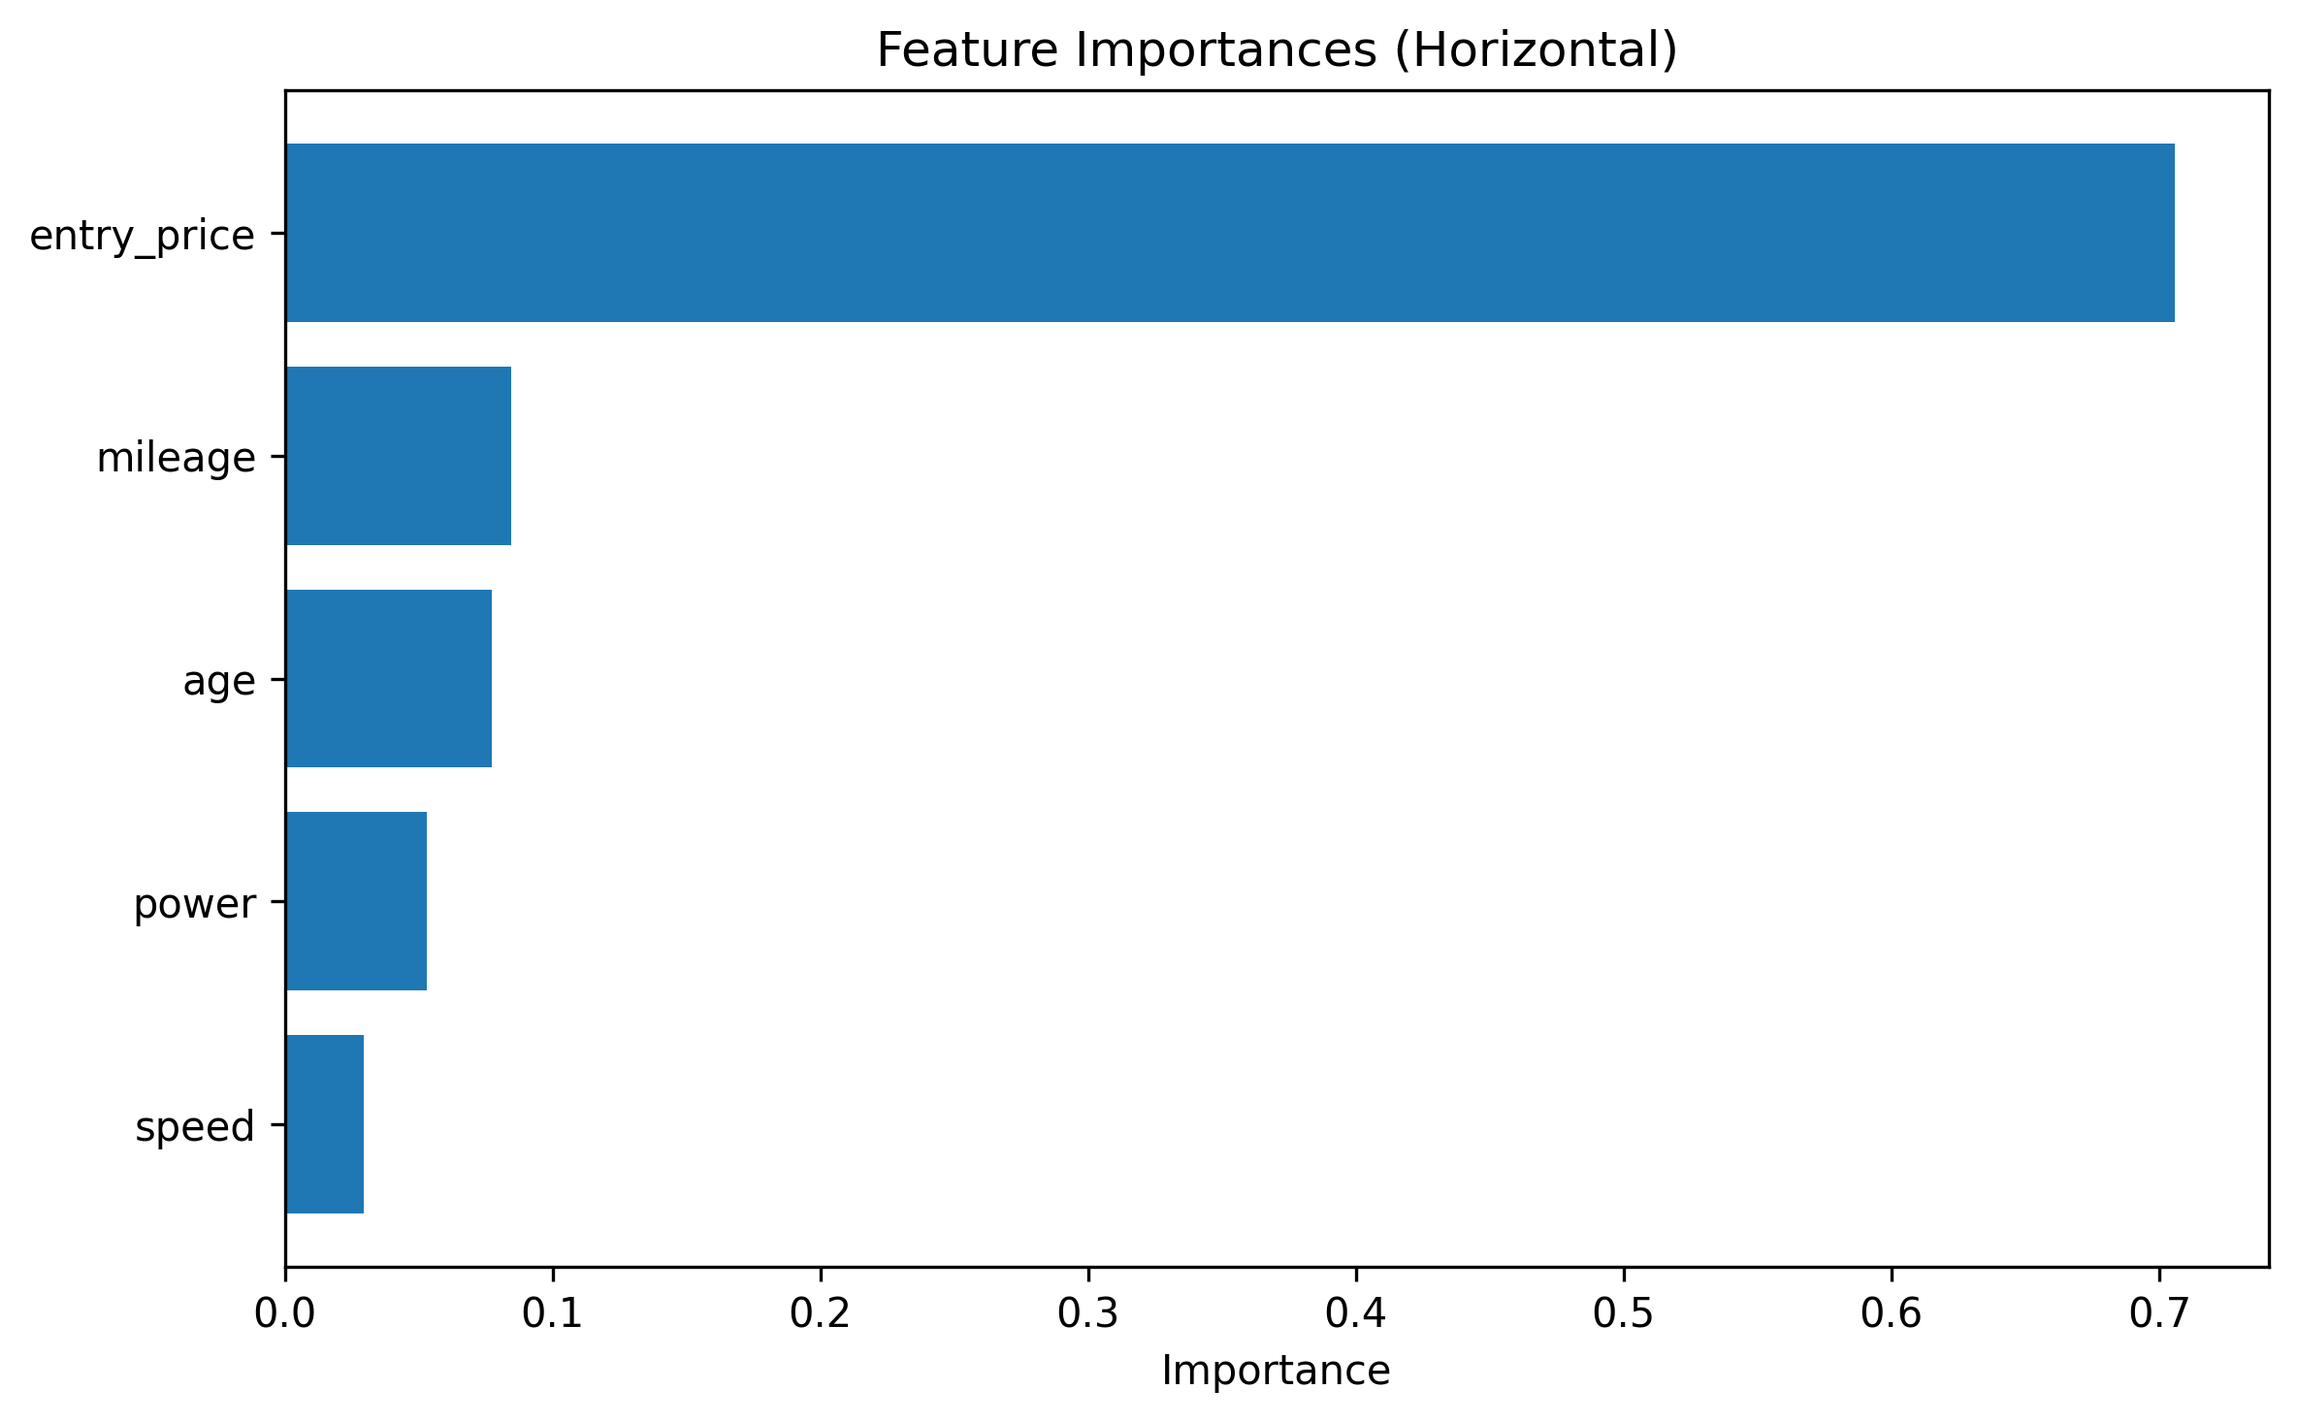
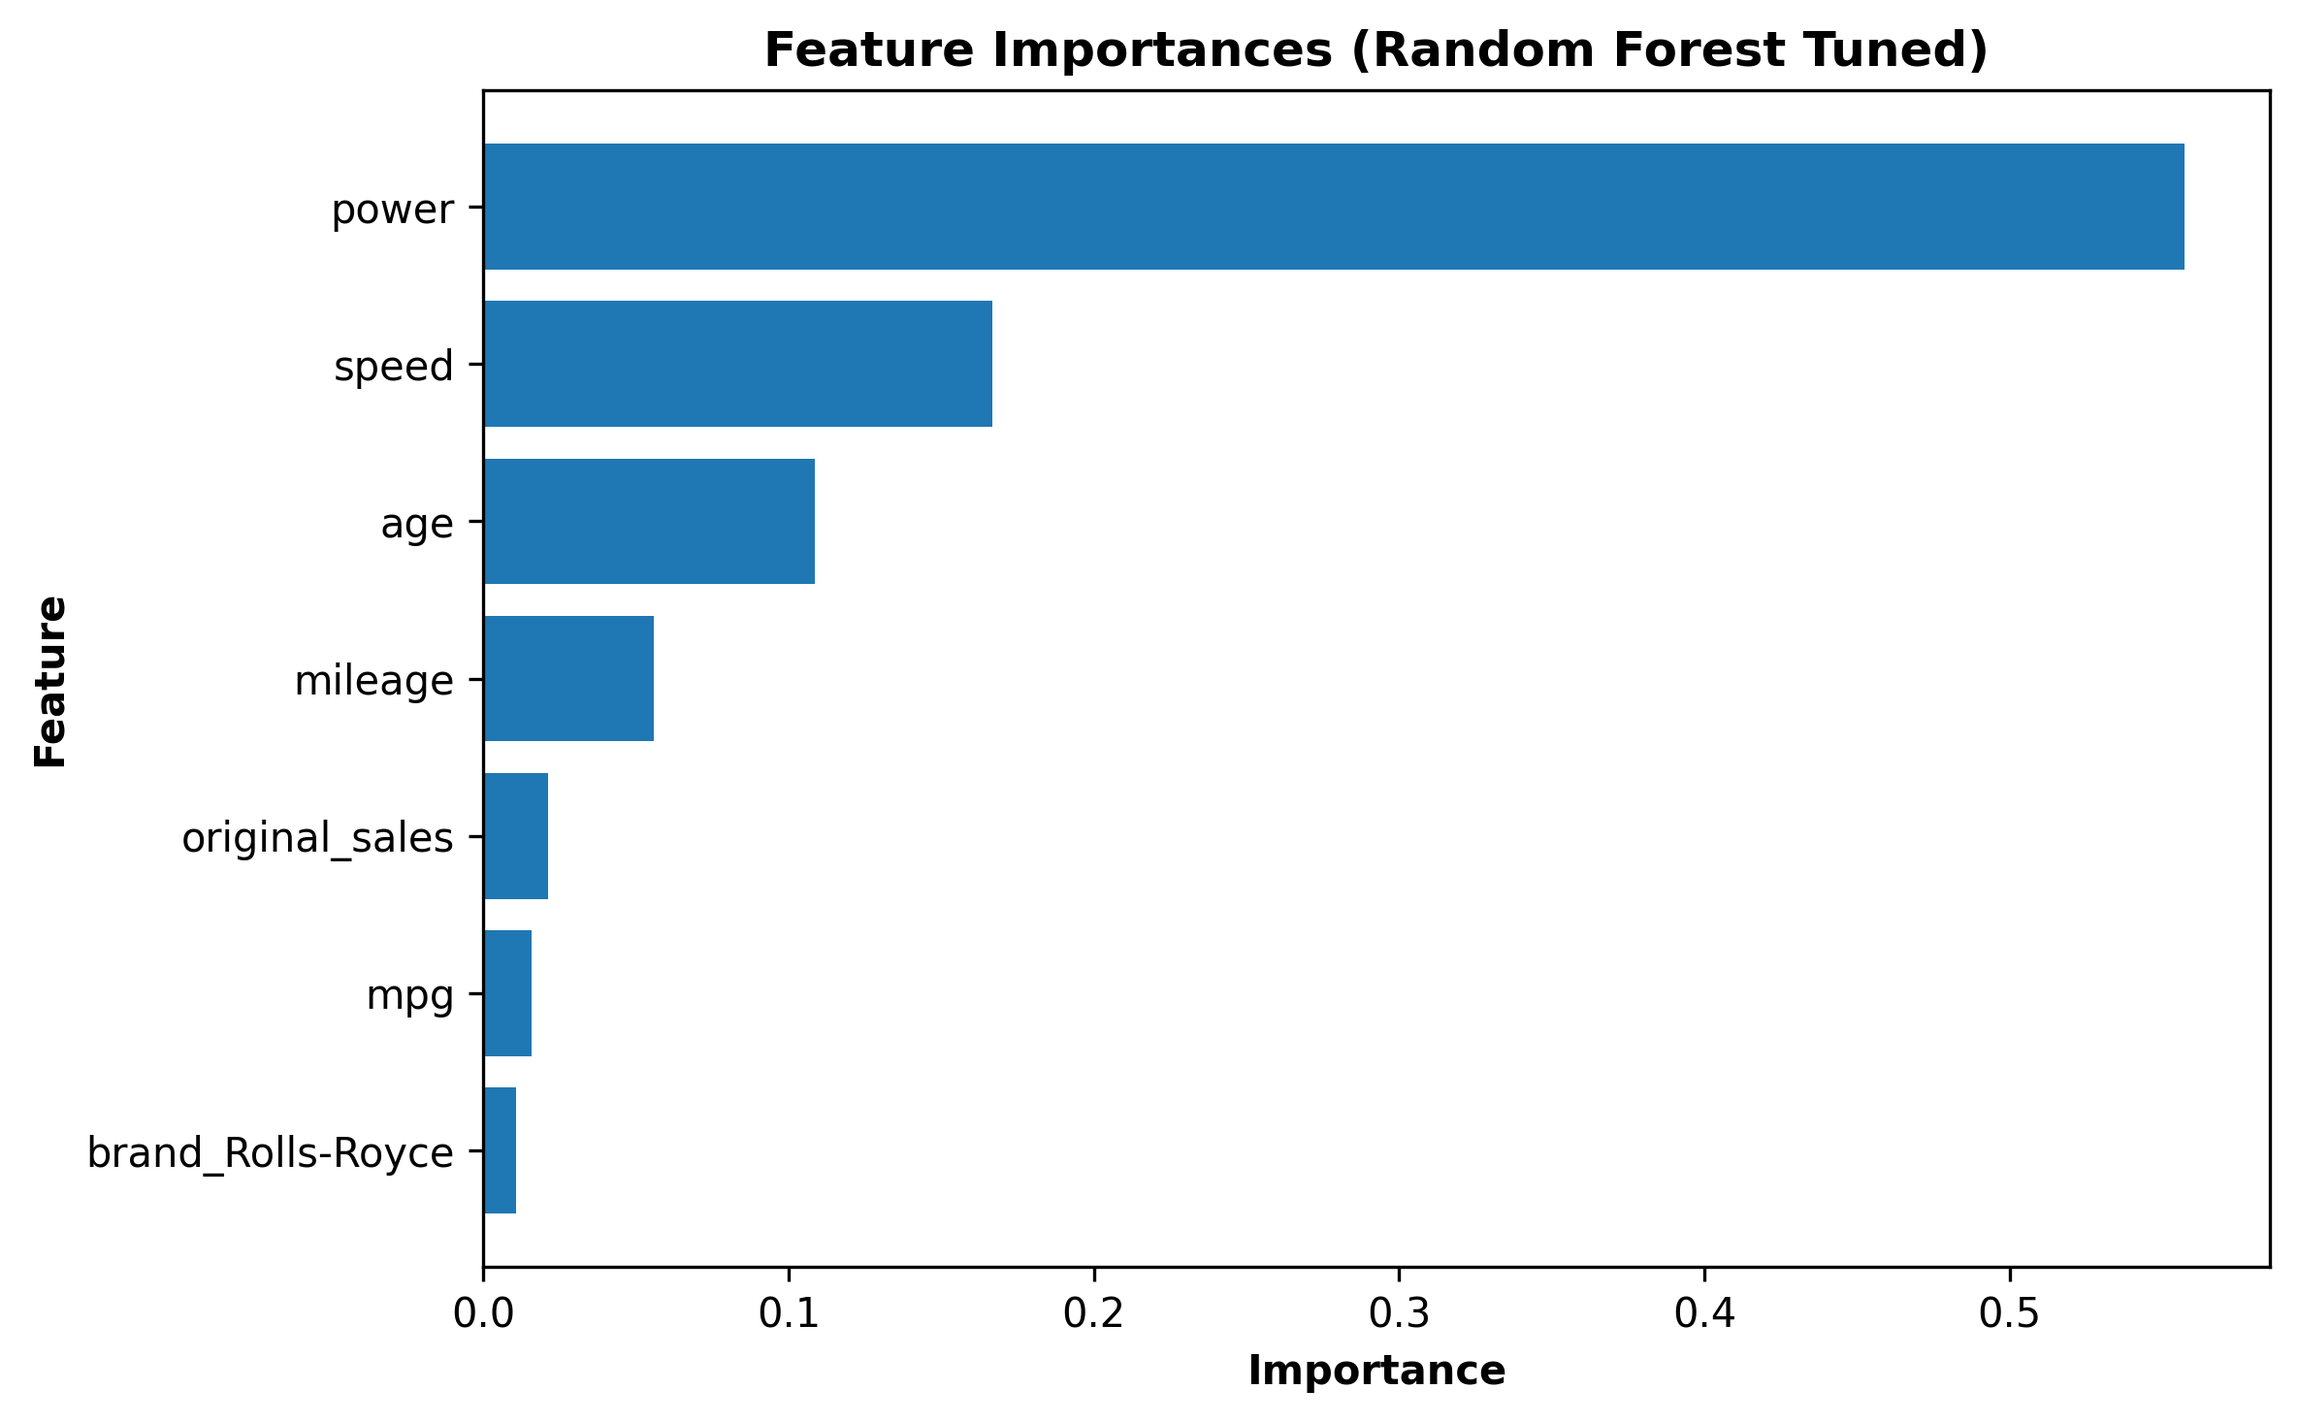
feat(models): save final models, metrics and figures

diff --git a/src/model_analysis.py b/src/model_analysis.py
@@ -21,14 +21,7 @@ from sklearn.utils.validation import check_is_fitted
 
 def main():
     df = get_safe_data()
-
-    # Check for proxy leakage
-    #plot_correlation_heatmap(df, numeric_features)
     
-    # Check price distributions
-    #plot_price_box_plots(df)
-
-    # -- Select features and split dataset -- #
     # List all categorical and numeric features
     categorical_features= [
         'brand', 'genmodel', 'colour', 'bodytype', 
@@ -42,12 +35,15 @@ def main():
         'age', 'usage_intensity_norm', 'original_sales', 'entry_price'
     ]
 
+    # Check for proxy leakage
+    plot_correlation_heatmap(df, numeric_features)
+
     # Define features and target for the model
     features = [
         'brand', 'colour', 'bodytype', 
         'gearbox','fuel', 'adv_month', 'mileage', 
         'mpg', 'seats', 'doors', 'power', 'engine',
-        'speed', 'age', 'usage_intensity_norm', 'original_sales', 'entry_price'
+        'speed', 'age', 'usage_intensity_norm', 'original_sales'
     ]
 
     target = 'price'
@@ -65,17 +61,34 @@ def main():
     all_features = show_feature_names(preprocess, categorical_features_to_train, numeric_features_to_train, X_train) # Get feature names
     print (f"Number of ohe catagoric features + numeric features: {len(all_features)}")
     
-    # # -- Train models -- #
-    #dtr_model = find_or_train_model("final_decision_tree.pkl", "decision_tree_regressor", preprocess, X_train, y_train, X_test, y_test)
-    rf_model = find_or_train_model("random_forest.pkl", "random_forest", preprocess, X_train, y_train, X_test, y_test)
-    #gb_model = find_or_train_model("gradient_boosting.pkl", "gradient_boosting", preprocess, X_train, y_train, X_test, y_test)
-    
+    # Train models
+    dtr_model = find_or_train_model("final_decision_tree.pkl", "decision_tree_regressor", preprocess, X_train, y_train, X_test, y_test)
+    gb_model = find_or_train_model("final_gradient_boosting.pkl", "gradient_boosting", preprocess, X_train, y_train, X_test, y_test)
+    rf_model = find_or_train_model("final_random_forest.pkl", "random_forest", preprocess, X_train, y_train, X_test, y_test)
+    rf_tuned_model = find_or_train_model("final_random_forest_tuned.pkl", "random_forest_tuned", preprocess, X_train, y_train, X_test, y_test)
 
-    # #Tune hyperparameters (tuned once then commented out)
+    # Plot feature importance
+    plot_feature_importance(all_features, dtr_model, "decision_tree_regressor", "final_dtr_feature_importance.png")
+    plot_feature_importance(all_features, gb_model, "gradient_boosting", "final_gb_feature_importance.png")
+    plot_feature_importance(all_features, rf_model, "random_forest", "final_rf_feature_importance.png")
+    plot_feature_importance(all_features, rf_tuned_model, "random_forest_tuned", "final_rf_tuned_feature_importance.png")
+
+    # Analyse Errors 
+    a_preds, a_mae, a_rmse, a_r2 = test_model(rf_tuned_model, X_test, y_test)
+    a_errors = np.abs(y_test - a_preds)
+    a_relative_error = a_errors / y_test
+
+    # Plot error graphs
+    plot_model_analysis(X_test, y_test, a_preds, a_errors, a_relative_error, "brand_level_bias.png", a_mae)
+
+    # Plot tree
+    #plot_decision_tree(dtr_model, "decision_tree_regressor", all_features, "final_decision_tree_plot.png")
+
+    #Tune hyperparameters (tuned once then commented out)
     # values, rf_tuned, params_tuned, mae_tuned, rmse_tuned, r2_tuned = tune_hyperparams(rf_model, "random_forest", X_train, y_train, X_test, y_test)
-    # save_model(rf_tuned, "rf_tuned3.pkl")
+    # save_model(rf_tuned, "final_random_forest_tuned.pkl")
     
-    # # Save tuned metrics
+    # # Save tuned metrics (uncomment when tuning model)
     # results = {
     #     "model_type": "random_forest_tuned",
     #     "mae": mae_tuned,
@@ -83,33 +96,9 @@ def main():
     #     "r2": r2_tuned,
     #     "hyperparameters": params_tuned,
     # }
+    # save_metrics(results, "final_rf_tuned.json")
 
-    # save_metrics(results, "rf_tuned3.json")
-
-    # Plot feature importance
-    #plot_feature_importance(all_features, dtr_model, "decision_tree_regressor", "final_dtr_feature_importance.png")
-    # plot_feature_importance(all_features, rf_model, "random_forest", "rf_feature_importance.png")
-    # plot_feature_importance(all_features, gb_model, "gradient_boosting", "gb_feature_importance.png")
-
-    # Plot tree
-    #plot_decision_tree(dtr_model, "decision_tree_regressor", all_features, "decision_tree_plot.png")
-
-    # Cross validate
-    #cross_validate(model, 'tree', X, y)
-
-    # Analyse Errors 
-
-    # a_preds, a_mae, a_rmse, a_r2 = test_model(rf_model, X_test, y_test)
-
-    # a_errors = np.abs(y_test - a_preds)
-    # a_relative_error = a_errors / y_test
-
-    # # # Plot error graphs
-    # # plot_error_graphs(errors, relative_error, y_test)
-    # plot_model_analysis(X_test, y_test, a_preds, a_errors, a_relative_error, "brand_level_entry_price.png")
-
-
-def plot_correlation_heatmap(df, numeric_features, figsize=(14, 10)):
+def plot_correlation_heatmap(df, numeric_features, figsize=(15, 8), fig_name = "correlation_heatmap.png"):
     """
     Plots a correlation heatmap for the numeric features in the dataset
     and prints the full correlation matrix.
@@ -128,15 +117,21 @@ def plot_correlation_heatmap(df, numeric_features, figsize=(14, 10)):
     plt.figure(figsize=figsize)
     sns.heatmap(
         corr_matrix,
+        annot_kws={"size": 12},
         annot=True,          # show values inside the heatmap
         fmt=".2f",           # format numbers
         cmap="coolwarm",
         center=0,
         linewidths=0.5
     )
+
+    plt.xticks(fontsize=15)
+    plt.yticks(fontsize=15)
+
     plt.title("Correlation Heatmap of Numeric Features")
     plt.tight_layout()
-    plt.show()
+    plt.savefig(f"figures/{fig_name}", dpi=600, bbox_inches='tight')
+    #plt.show()
 
     return corr_matrix
 
@@ -145,7 +140,7 @@ def find_or_train_model(model_file: str, model_name: str, preprocess, X_train, y
     # Check if model has already been trained, if not train the relevant model 
     
     model_path = os.path.join(f"models/{model_file}")
-    metrics_path = f"models/{model_name}_metrics.json"
+    metrics_path = f"models/final_{model_name}_metrics.json"
     if os.path.exists(model_path) and os.path.exists(metrics_path):
         model = load_model(model_file)
         print(f"Loaded existing baseline {model_name} model.")
@@ -208,8 +203,7 @@ def get_safe_data(path = "data/processed/final_dataset.csv"):
 
     safe_df =  df[(~df["is_flagged"]) & price_filter]
 
-    #5print(safe_df.max())
-        
+    #print(safe_df.max())
 
     return safe_df
 
@@ -255,7 +249,7 @@ def show_feature_names(preprocess: ColumnTransformer, cat_features:list, num_fea
     return all_features
 
 def run_pipeline(preprocess: ColumnTransformer, X_train, y_train, model_name:str):
-    # runs full pipeline based on the model selected - preprocessing + model
+    # Runs full pipeline based on the model selected - preprocessing + model
     start = time.time()
 
     match model_name:
@@ -269,6 +263,18 @@ def run_pipeline(preprocess: ColumnTransformer, X_train, y_train, model_name:str
             model = Pipeline(steps=[
                 ('preprocess', preprocess),
                 ('random_forest', RandomForestRegressor(n_jobs=-1, random_state=10))
+            ])
+        case "random_forest_tuned":
+            model = Pipeline(steps=[
+                ('preprocess', preprocess),
+                ('random_forest_tuned', RandomForestRegressor(
+                    n_jobs=-1, 
+                    max_depth = 29,
+                    max_features = None,
+                    min_samples_leaf = 2,
+                    min_samples_split = 6,
+                    n_estimators = 47,
+                    random_state = 10))
             ])
 
         case "gradient_boosting":
@@ -296,7 +302,7 @@ def test_model(model, X_test, y_test):
     return preds, mae, rmse, r2
 
 def plot_decision_tree(model, model_name, all_features, fig_name:str):
-    # -- Plot tree graphically -- #
+    # Plot tree graphically
 
     # Extract tree to plot graphically
     model_step = model.named_steps[model_name]
@@ -330,7 +336,8 @@ def cross_validate(model, model_type:str, X, y, score_type = 'neg_mean_absolute_
     print("Worst MAE:", np.max(cv_mae)) # highest error
 
 def plot_feature_importance(all_features:list, model, model_name:str, fig_name:str):
-    
+    # Plot feature importance horizontal bar chart
+
     model_step = model.named_steps[model_name]
 
     # Find feature importances
@@ -351,8 +358,9 @@ def plot_feature_importance(all_features:list, model, model_name:str, fig_name:s
     plt.figure(figsize=(8,5))
     plt.barh(feat_imp_nonzero["Feature"], feat_imp_nonzero["Importance"])
 
-    plt.xlabel("Importance")
-    plt.title("Feature Importances (Horizontal)")
+    plt.xlabel("Importance", fontweight="bold")
+    plt.ylabel("Feature", fontweight="bold")
+    plt.title("Feature Importances (Random Forest Tuned)", fontweight="bold")
     plt.tight_layout()
     plt.savefig(f"figures/{fig_name}", dpi=300, bbox_inches='tight')
 
@@ -381,11 +389,11 @@ def plot_error_graphs(errors, relative_error, y_test):
     plt.savefig("figures/relative_error.png", dpi=300, bbox_inches='tight')
     #plt.show()
 
-def plot_model_analysis(X_test, y_test, preds, errors, relative_error, file_name:str):
+def plot_model_analysis(X_test, y_test, preds, errors, relative_error, file_name:str, mae ):
     
     # Check if model performs worse on high or low priced cars
     bins = [0, 5000, 10000, 20000, 40000, 60000, 70000, 80000, 90000, 100000, 200000, 300000, 400000, 500000, 600000, 700000, 800000, 900000, 1000000, 2000000]
-    labels = [ f"{int(bins[i]/1000)}-{int(bins[i+1]/1000)}k" for i in range(len(bins)-1) ]
+    labels = [ f"{int(bins[i]/1000)}-{int(bins[i+1]/1000)}" for i in range(len(bins)-1) ]
 
     df_errors = pd.DataFrame({
         "true_price": y_test,
@@ -395,14 +403,15 @@ def plot_model_analysis(X_test, y_test, preds, errors, relative_error, file_name
 
     df_errors["price_bin"] = pd.cut(df_errors["true_price"], bins=bins, labels=labels)
 
-    error_by_bin = df_errors.groupby("price_bin")[["error", "relative_error"]].mean()
+    error_by_bin = df_errors.groupby("price_bin")[["error", "relative_error"]].mean()*100
    
     # --- Plot error by price bin --- #
     plt.figure(figsize=(12, 6))
     plt.bar(error_by_bin.index.astype(str), error_by_bin["relative_error"], color="steelblue")
     plt.xticks(rotation=45, ha="right")
-    plt.ylabel("Relative Error")
-    plt.title("Relative Error by Price Range")
+    plt.ylabel("Relative Error (%)", fontweight="bold", fontsize = 15)
+    plt.xlabel("Price Range (thousand, £)", fontweight="bold", fontsize = 15)
+    plt.title("Relative Error by Price Range", fontweight="bold", fontsize = 15)
     plt.tight_layout()
     plt.savefig("figures/relative_error_binned.png", dpi=300, bbox_inches='tight')
     #plt.show()
@@ -410,8 +419,8 @@ def plot_model_analysis(X_test, y_test, preds, errors, relative_error, file_name
     plt.figure(figsize=(12, 6))
     plt.bar(error_by_bin.index.astype(str), error_by_bin["error"], color="darkorange")
     plt.xticks(rotation=45, ha="right")
-    plt.ylabel("Absolute Error (£)")
-    plt.title("Absolute Error by Price Range")
+    plt.ylabel("Absolute Error (£)", fontweight="bold")
+    plt.title("Absolute Error by Price Range", fontweight="bold")
     plt.tight_layout()
     plt.savefig("figures/absolute_error_binned.png", dpi=300, bbox_inches='tight')
     #plt.show()
@@ -431,20 +440,30 @@ def plot_model_analysis(X_test, y_test, preds, errors, relative_error, file_name
 
     brand_errors = df_brand.groupby("brand")["error"].mean().sort_values()
     # Filter significant over/under predictions 
-    threshold = 800 # or mae 
-    significant = brand_errors[brand_errors.abs() > threshold]
+    threshold = mae 
+    significant = brand_errors[(brand_errors.abs() > threshold) & (brand_errors.abs() < 50000 )] # Filter for errors larger than the MAE and remove outliers (extreme errors)
 
     print(significant)
     
-    colors = ["red" if v < 0 else "green" for v in brand_errors.values]
+    colors = ["red" if v < 0 else "green" for v in significant.values]
 
-    plt.figure(figsize=(10, 14))
-    plt.barh(brand_errors.index, brand_errors.values, color=colors)
-    plt.xlabel("Average Prediction Error (£)")
-    plt.title("Brand-Level Prediction Bias")
+
+    # Format Graph
+    plt.figure(figsize=(15, 6))
+    plt.barh(significant.index, significant.values, color=colors)
+    plt.xlabel("Average Prediction Error (MAE, £)", fontsize =18, fontweight="bold")
+    #plt.ylabel("Brand", fontsize =15, fontweight="bold")
+    plt.yticks(fontsize=16)
+    plt.xticks(fontsize=16)
+    plt.title("Brand-Level Prediction Bias", fontsize = 18, fontweight="bold")
     plt.axvline(0, color="black", linewidth=1)
+
+    # Add value labels
+    for i, v in enumerate(significant.values):
+        plt.text(v,i,f"{v:.0f}",va='center',ha='left' if v >= 0 else 'right', fontsize = 12)
+
     plt.tight_layout()
-    plt.savefig(file_name, dpi=300, bbox_inches='tight')
+    plt.savefig(f"figures/{file_name}", dpi=300, bbox_inches='tight')
     #plt.show()
 
 def plot_price_box_plots(df:pd.DataFrame):
@@ -502,8 +521,8 @@ def tune_hyperparams(model, model_type:str, X_train, y_train, X_test, y_test):
         case 'random_forest':
             param_dist = {
                 "random_forest__n_estimators": randint(20, 150),
-                "random_forest__max_depth": [None] + list(range(5, 51)),
-                "random_forest__min_samples_split": randint(2, 20),
+                "random_forest__max_depth": [None] + list(range(5, 31)),
+                "random_forest__min_samples_split": randint(2, 11),
                 "random_forest__min_samples_leaf": randint(1, 5),
                 "random_forest__max_features": [None, "sqrt", "log2"]
             }
@@ -518,8 +537,6 @@ def tune_hyperparams(model, model_type:str, X_train, y_train, X_test, y_test):
         n_jobs=-1,
         random_state=10
     )
-
-
 
     # grid = GridSearchCV(
     #     model,

diff --git a/tests/unit/test_final_dataset.py b/tests/unit/test_final_dataset.py
@@ -1,6 +1,6 @@
 import unittest as ut
 import pandas as pd
-from src.merge_ad_sales_price import merge_ad_sales_price
+from src.cleaning.merge_ad_sales_price import merge_ad_sales_price
 
 class TestMergeAdSalesPrice(ut.TestCase):
     def test_no_duplicate_rows_after_merge(self):

diff --git a/src/cleaning/clean_ad.py b/src/cleaning/clean_ad.py
@@ -281,7 +281,7 @@ def clean_numeric_columns(df):
     plt.xlabel("Price (£)", fontsize = 14) 
     plt.xticks(fontsize=12)
     plt.savefig("figures/raw_price_box_plot.png", dpi=300, bbox_inches='tight')
-    plt.show()
+    #plt.show()
     
 
     # Set cleaning rules
